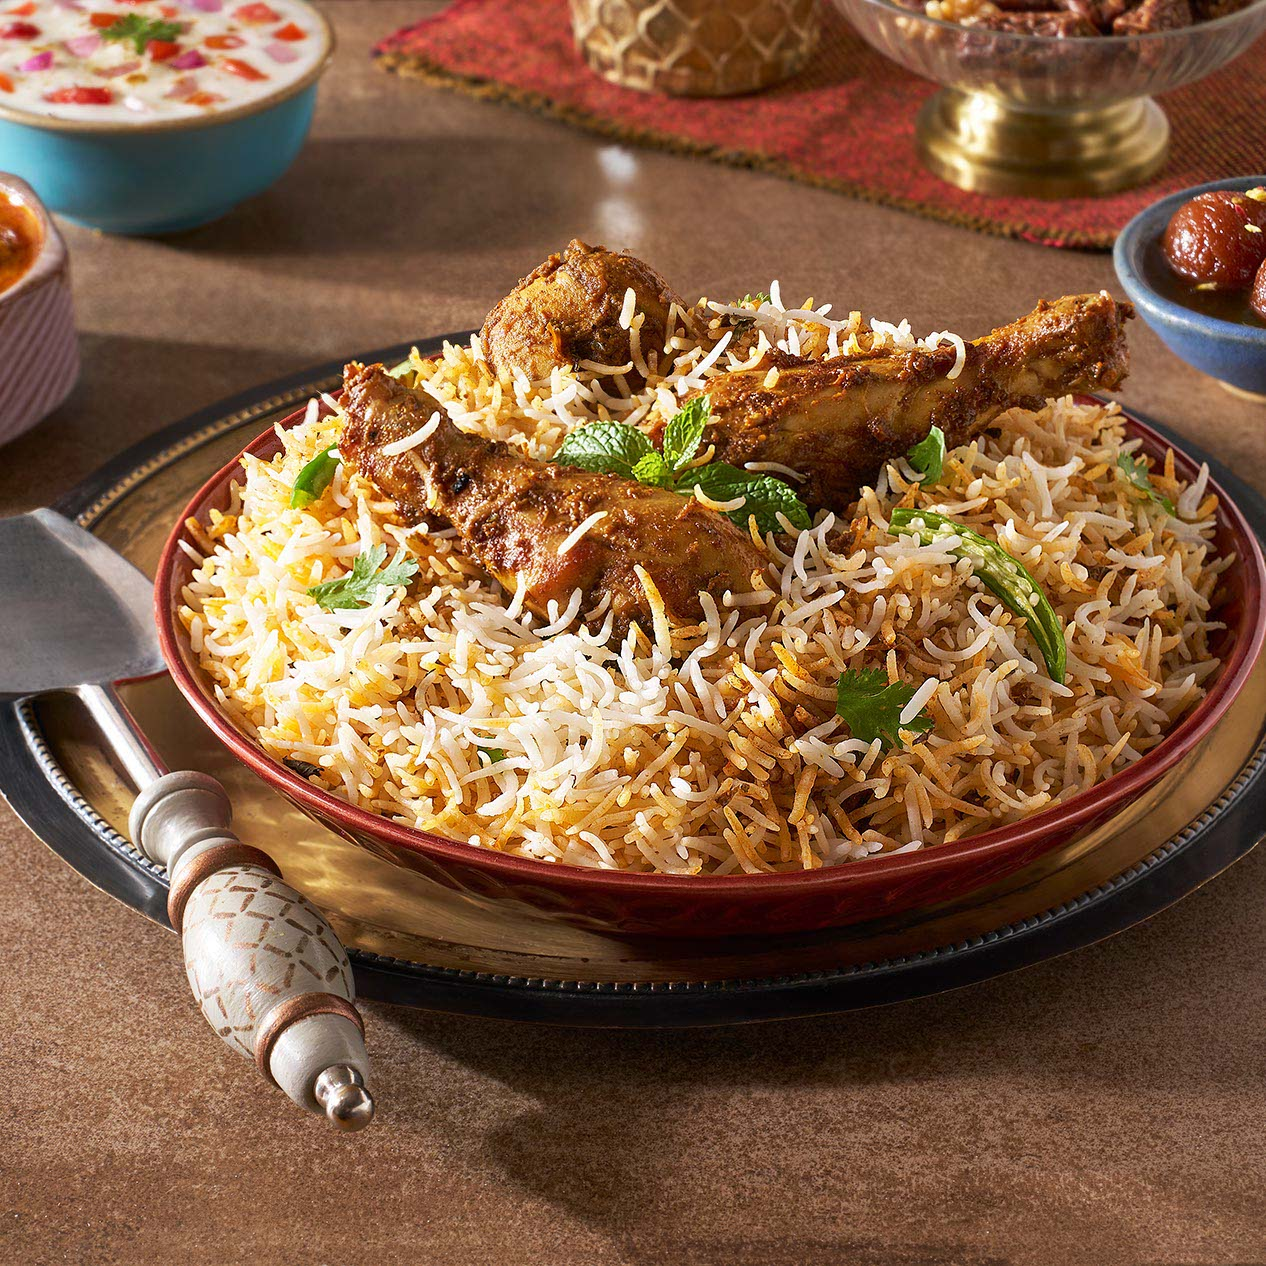
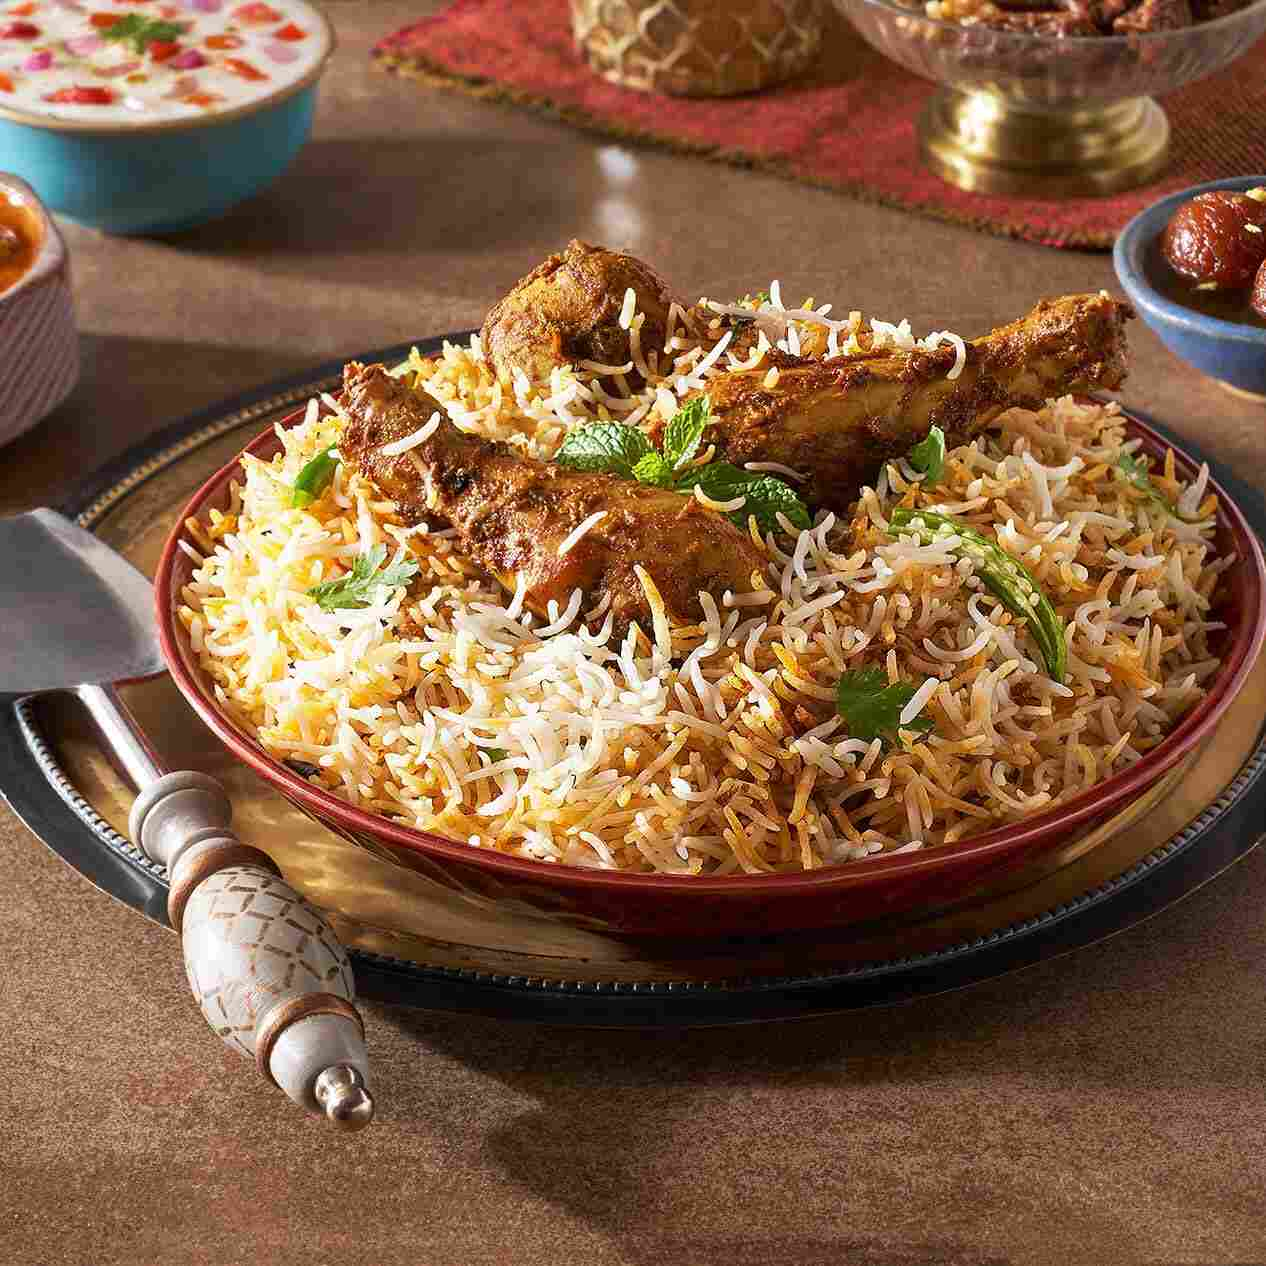
added new optimised images

diff --git a/components/Home/Menu.tsx b/components/Home/Menu.tsx
@@ -19,7 +19,7 @@ export const menuItems: Menu[] = [
   },
   {
     name: "Lucknowi Nawabi",
-    image: "/menu.png",
+    image: "/menu.jpg",
     features: ["ROYAL RECIPE", "MILD SPICE", "NON-VEG"],
     desc: "An elegant Awadhi-style biryani inspired by the royal kitchens of Lucknow, delicately seasoned with aromatic whole spices for a refined taste.",
   },
@@ -71,8 +71,8 @@ export default function Menu() {
   }, [active]);
 
   return (
-    <section 
-      id="menu" 
+    <section
+      id="menu"
       ref={revealRef}
       className="flex flex-col lg:flex-row min-h-[90vh] w-full overflow-hidden"
     >
@@ -91,22 +91,25 @@ export default function Menu() {
           ))}
         </div>
         <p className="text-[#4A3820] text-xs font-aller mt-2">
-          Starting from <span className="text-sm text-[#C8960A] font-semibold">140+</span> ·
+          Starting from{" "}
+          <span className="text-sm text-[#C8960A] font-semibold">140+</span> ·
           All prices include taxes
         </p>
       </div>
-      
+
       <div
         className={`w-full lg:w-3/5 min-h-[45vh] sm:min-h-[55vh] lg:min-h-[90vh] bg-cover bg-center relative flex flex-col gap-3 justify-end p-6 sm:p-12 transition-all duration-500 reveal reveal-right delay-200`}
-        style={{ 
+        style={{
           backgroundImage: `url(${current.image})`,
-          transitionProperty: "background-image, opacity"
+          transitionProperty: "background-image, opacity",
         }}
       >
         <div className="absolute inset-0 bg-gradient-to-t from-black via-black/40 to-transparent z-10"></div>
-        <div className={`z-30 mb-2 transition-all duration-500 transform ${
-          fade ? "opacity-100 translate-y-0" : "opacity-0 translate-y-4"
-        }`}>
+        <div
+          className={`z-30 mb-2 transition-all duration-500 transform ${
+            fade ? "opacity-100 translate-y-0" : "opacity-0 translate-y-4"
+          }`}
+        >
           <Item
             features={current.features}
             item={current.name}
@@ -166,7 +169,9 @@ function Item({
         ))}
       </div>
       <p className="text-3xl sm:text-4xl font-tan text-[#F5EDD8]">{item}</p>
-      <p className="font-aller text-xs sm:text-sm text-[#C8B090CC] max-w-md leading-relaxed">{desc}</p>
+      <p className="font-aller text-xs sm:text-sm text-[#C8B090CC] max-w-md leading-relaxed">
+        {desc}
+      </p>
     </div>
   );
 }

diff --git a/components/Home/AboutUs.tsx b/components/Home/AboutUs.tsx
@@ -24,7 +24,8 @@ export default function AboutUs() {
         <p className="font-aller text-[#6B4E35] font-semibold max-w-xl text-sm leading-relaxed">
           Born from the royal kitchens of Hyderabad, our biryani carries
           centuries of Mughal culinary wisdom in every grain. We honour the
-          original dum cooking technique—sealed vessels, slow flames, and time—because greatness cannot be hurried.
+          original dum cooking technique—sealed vessels, slow flames, and
+          time—because greatness cannot be hurried.
         </p>
         <p className="font-dm text-[#6B4E35] text-sm max-w-xl leading-relaxed">
           Each pot is a symphony of hand-ground spices, premium aged basmati,
@@ -36,9 +37,9 @@ export default function AboutUs() {
         </p>
       </div>
       <div className="w-full lg:w-1/2 flex justify-center reveal reveal-right delay-200">
-        <div className="relative w-full max-w-md sm:max-w-lg aspect-[5/6] h-auto">
+        <div className="relative w-full max-w-md sm:max-w-lg aspect-5/6 h-auto">
           <Image
-            src={"/about-us.png"}
+            src={"/about-us.jpg"}
             alt="about-us"
             fill
             sizes="(max-width:768px) 100vw, 50vw"

diff --git a/components/Home/LandingSection.tsx b/components/Home/LandingSection.tsx
@@ -15,7 +15,7 @@ export default function LandingSection() {
     <section
       id="home"
       className="min-h-screen bg-[#0D0600] bg-cover md:bg-center bg-bottom-right flex flex-col justify-center px-6 md:px-20 py-28 md:py-0 relative overflow-hidden"
-      style={{ backgroundImage: "url('/landing.png')" }}
+      style={{ backgroundImage: "url('/landing.jpg')" }}
     >
       {/* Overlay to ensure high contrast and text readability on all devices */}
       <div className="absolute inset-0 bg-black/40 z-0"></div>

diff --git a/components/Home/Gallery.tsx b/components/Home/Gallery.tsx
@@ -26,7 +26,7 @@ export default function Gallery() {
       <div className="grid grid-cols-1 sm:grid-cols-2 lg:grid-cols-3 place-content-stretch reveal reveal-scale delay-200">
         <div className="h-60 sm:col-span-2 relative overflow-hidden group">
           <Image
-            src={"/gallery-1.png"}
+            src={"/gallery-1.jpg"}
             alt="gallery-image"
             fill
             sizes="(max-width:768px) 100vw, 50vw"
